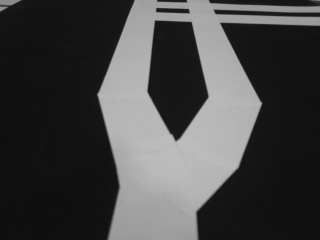
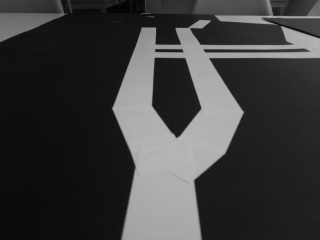
code can handle fork style intersections quite well now

diff --git a/main.py b/main.py
@@ -30,7 +30,7 @@ RESOLUTION_X = 320
 RESOLUTION_Y = 240
 
 DEMO = True
-MOVE = True
+MOVE = False
 # This is half the width of the line at the bottom of the screen that we start looking for
 # the line we want to follow.
 SCAN_RADIUS = RESOLUTION_X / 2
@@ -190,13 +190,6 @@ def findLine(display_image, scan_data, x, y, radius):
             right[0] = index
 
     line_position = (right[0] + left[0]) / 2
-    #print("line position {} {}, {} - {}".format(scan_start, left, right, line_position))
-    # mid point, where we believe is the centre of the line
-    #cv2.circle(display_image, (scan_start + line_position, y), 5, (0, 204, 102), -1, 8, 0)
-    # left boundrary dot on the line
-    #cv2.circle(display_image, (scan_start + left[0], y), 5, (0, 0, 102), -1, 4, 0)
-    # right boundrary dot on the line
-    #cv2.circle(display_image, (scan_start + right[0], y), 5, (0, 0, 102), -1, 4, 0)
     return (scan_start + line_position, y)
 
 
@@ -249,6 +242,44 @@ def main():
             display_image = cv2.copyMakeBorder(
                 image, 0, 0, 0, 0, cv2.BORDER_REPLICATE)
             center_point = (SCAN_POS_X, SCAN_HEIGHT)
+            if (track == "hard"):
+                ret, thresh = cv2.threshold(grey_image, 127, 255, 0)
+                thresh = thresh[100:240, 0:320]
+                contours_right, hierarchy = cv2.findContours(
+                    thresh[0:140, 180:320], cv2.RETR_CCOMP, cv2.CHAIN_APPROX_SIMPLE)
+                contours_left, hierarchy = cv2.findContours(
+                    thresh[0:140, 0:140], cv2.RETR_CCOMP, cv2.CHAIN_APPROX_SIMPLE)               
+
+                #If a interection is detected pull some evasive manouvers
+                if len(contours_right) >= 1 and len(contours_left) >= 1:
+                    print(len(contours_right))
+                    contour_right = max(contours_right, key=cv2.contourArea)
+                    contour_left = max(contours_left, key=cv2.contourArea)
+                    area = cv2.contourArea(contour_right)
+                    x,y,w,h = cv2.boundingRect(contour_right)
+                    rect_area = w*h
+                    extent_right = float(area) / rect_area
+                    area = cv2.contourArea(contour_left)
+                    x,y,w,h = cv2.boundingRect(contour_left)
+                    rect_area = w * h
+                    extent_left = float(area) / rect_area 
+
+                    print(extent_left, extent_right)
+                    if extent_left >= 0.5 and extent_right>= 0.5:
+                        print("2 <= contours, most likely an intersection, EVASIVE MANOUVERS !")
+                        intersection = True
+                        cv2.rectangle(display_image, (0, 0), (160, 240), (0, 0, 0), -1)
+                        cv2.rectangle(grey_image, (0, 0), (160, 240), (0,0,0), -1)
+                    if DEMO:
+                        croppedImg = image.copy()
+                        croppedImg_right = croppedImg[100:240, 180:320]
+                        croppedImg_left = croppedImg[100:240, 0:140]
+                        cv2.drawContours(croppedImg_right, contours_right, 0, (0, 0, 255), 2)
+                        cv2.drawContours(croppedImg_left, contours_left, 0, (0, 255, 0), 2)
+                        numpy_horizontal = np.hstack((croppedImg_left,croppedImg_right))
+                        cv2.imshow('', numpy_horizontal)           
+                        cv2.waitKey(0)
+                        cv2.destroyAllWindows()
             # San a horizontal line based on the centre point
             # We could just use this data to work out how far off centre we are and steer accordingly.
             # Get a data array of all the falues along that line
@@ -314,45 +345,6 @@ def main():
                 line_scan_length,
                 line_length_from_center)
             print(returnString)
-
-            if (track == "hard"):
-                ret, thresh = cv2.threshold(grey_image, 127, 255, 0)
-                thresh = thresh[100:240, 0:320]
-                contours_right, hierarchy = cv2.findContours(
-                    thresh[0:140, 180:320], cv2.RETR_CCOMP, cv2.CHAIN_APPROX_SIMPLE)
-                contours_left, hierarchy = cv2.findContours(
-                    thresh[0:140, 0:140], cv2.RETR_CCOMP, cv2.CHAIN_APPROX_SIMPLE)               
-                if DEMO:
-                    croppedImg = image.copy()
-                    croppedImg_right = croppedImg[100:240, 180:320]
-                    croppedImg_left = croppedImg[100:240, 0:140]
-                    cv2.drawContours(croppedImg_right, contours_right, 0, (0, 0, 255), 2)
-                    cv2.drawContours(croppedImg_left, contours_left, 0, (0, 255, 0), 2)
-                    numpy_horizontal = np.hstack((croppedImg_left,croppedImg_right))
-                    cv2.imshow('', numpy_horizontal)           
-                    cv2.waitKey(0)
-                    cv2.destroyAllWindows()
-                #If a interection is detected pull some evasive manouvers
-                if len(contours_right) >= 1 and len(contours_left) >= 1:
-                    print(len(contours_right))
-                    contour_right = max(contours_right, key=cv2.contourArea)
-                    contour_left = max(contours_left, key=cv2.contourArea)
-                    area = cv2.contourArea(contour_right)
-                    x,y,w,h = cv2.boundingRect(contour_right)
-                    rect_area = w*h
-                    extent_right = float(area) / rect_area
-                    area = cv2.contourArea(contour_left)
-                    x,y,w,h = cv2.boundingRect(contour_left)
-                    rect_area = w * h
-                    extent_left = float(area) / rect_area 
-
-
-                    print(extent_left, extent_right)
-                    if extent_left >= 0.5 and extent_right>= 0.5:
-                        print("2 <= contours, most likely an intersection, EVASIVE MANOUVERS !")
-                        intersection = True
-                    if MOVE and intersection:
-                        move.intersection()
                                   
             if MOVE and not intersection:
                 move.move(lineAngle(center_point, last_point) * -1 - 90,

diff --git a/image.py b/image.py
@@ -11,34 +11,7 @@ def process(im, demo=True):
         thresh, cv2.RETR_CCOMP, cv2.CHAIN_APPROX_SIMPLE)
     print(len(contours))
     cv2.drawContours(img, contours, 0, (0, 0, 255), 1)
-    C = None
-    if contours is not None and len(contours) > 0:
-        C = max(contours, key=cv2.contourArea)
-        rect = cv2.minAreaRect(C)
-        box = cv2.boxPoints(rect)
-        box = np.int0(box)
-        box = geom.order_box(box)
-        print(box)
-        p1, p2 = geom.calc_box_vector(box)
-        angle = geom.get_vert_angle(p1, p2, w, h)
-        shift = geom.get_horz_shift(p1[0], w)
-        print("Angle: {0}\nShift: {1}\nBox: {2}{3}".format(
-            angle, shift, p1, p2))
-        if demo:
-            cv2.drawContours(img, [box], 0, (0, 0, 255), 2)
-            cv2.drawContours(img, [box], 0, (255, 0, 0), 2)
-            cv2.line(img, (int(p1[0]), int(p1[1])),
-                     (int(p2[0]), int(p2[1])), (0, 255, 0), 5)
-            msg_a = "Angle {0}".format(int(angle))
-            msg_s = "Shift {0}".format(int(shift))
-            cv2.putText(img, msg_a, (10, 20), cv2.FONT_HERSHEY_SIMPLEX,
-                        0.5, (255, 255, 255), 1)
-            cv2.putText(img, msg_s, (10, 40), cv2.FONT_HERSHEY_SIMPLEX,
-                        0.5, (255, 255, 255), 1)
-
-            cv2.imshow('', img)
-            cv2.waitKey(0)
-            cv2.destroyAllWindows()
-        return angle, shift
-    else:
-        return 0,0     
+    cv2.imshow('', img)
+    cv2.waitKey(0)
+    cv2.destroyAllWindows()
+     

diff --git a/move.py b/move.py
@@ -24,3 +24,10 @@ def move(bearing, cent_x, cent_y, line_scan_length, line_from_cent, direction):
             gpg.turn_degrees(bearing / 4)
 
         gpg.drive_cm(5)
+
+
+def intersection():
+    gpg = easy.EasyGoPiGo3()
+    gpg.turn_degrees(30)
+    gpg.drive_cm(8)
+    gpg.turn_degrees(-15)
